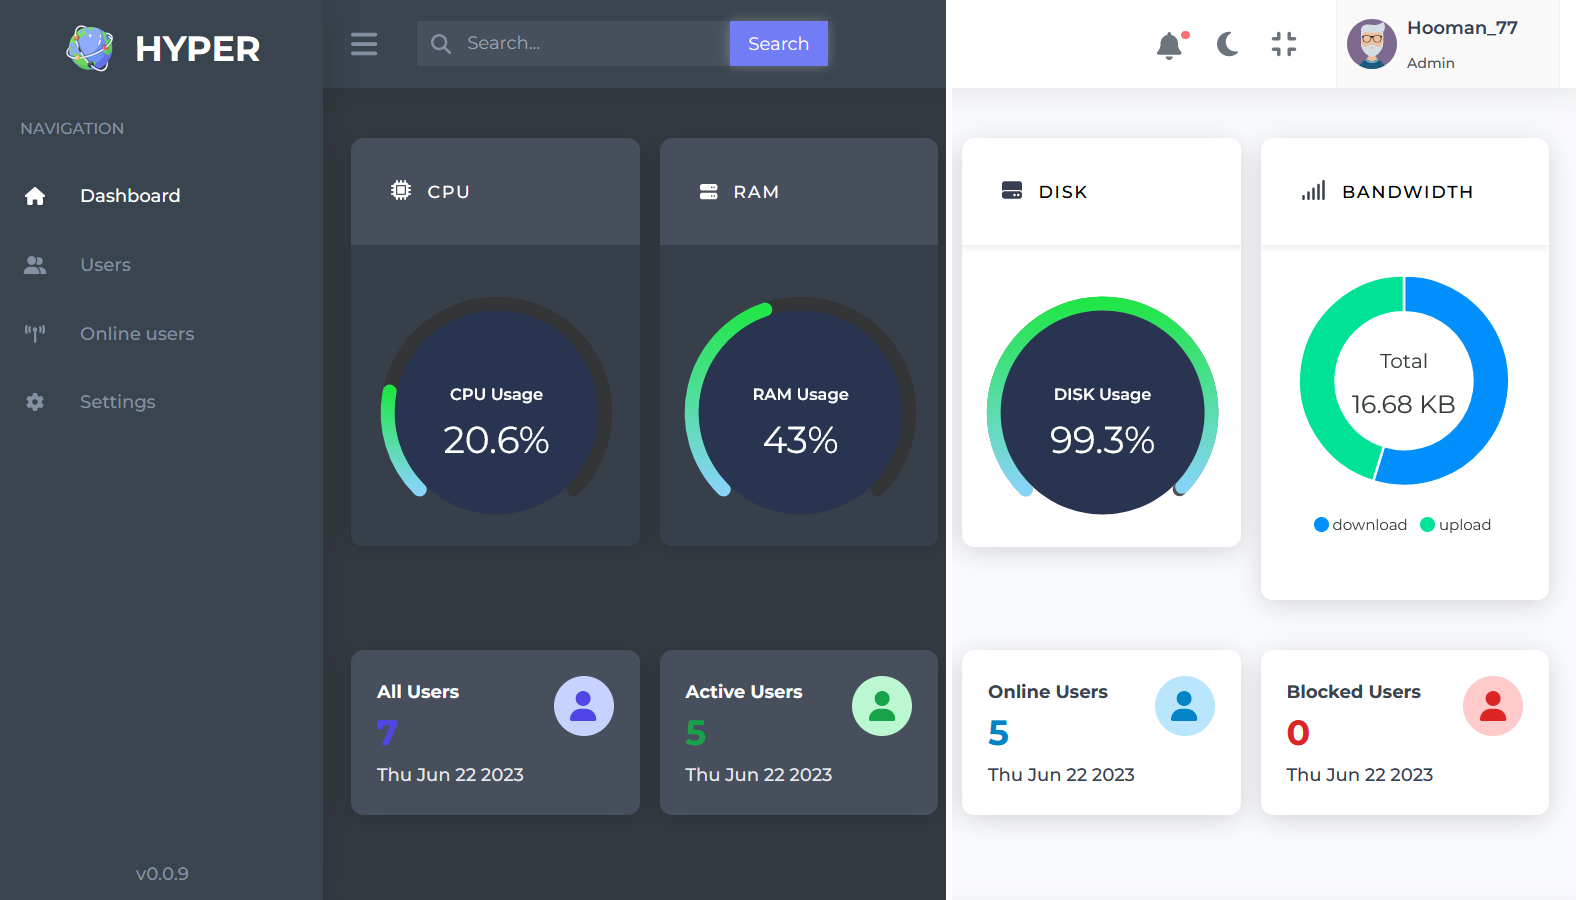
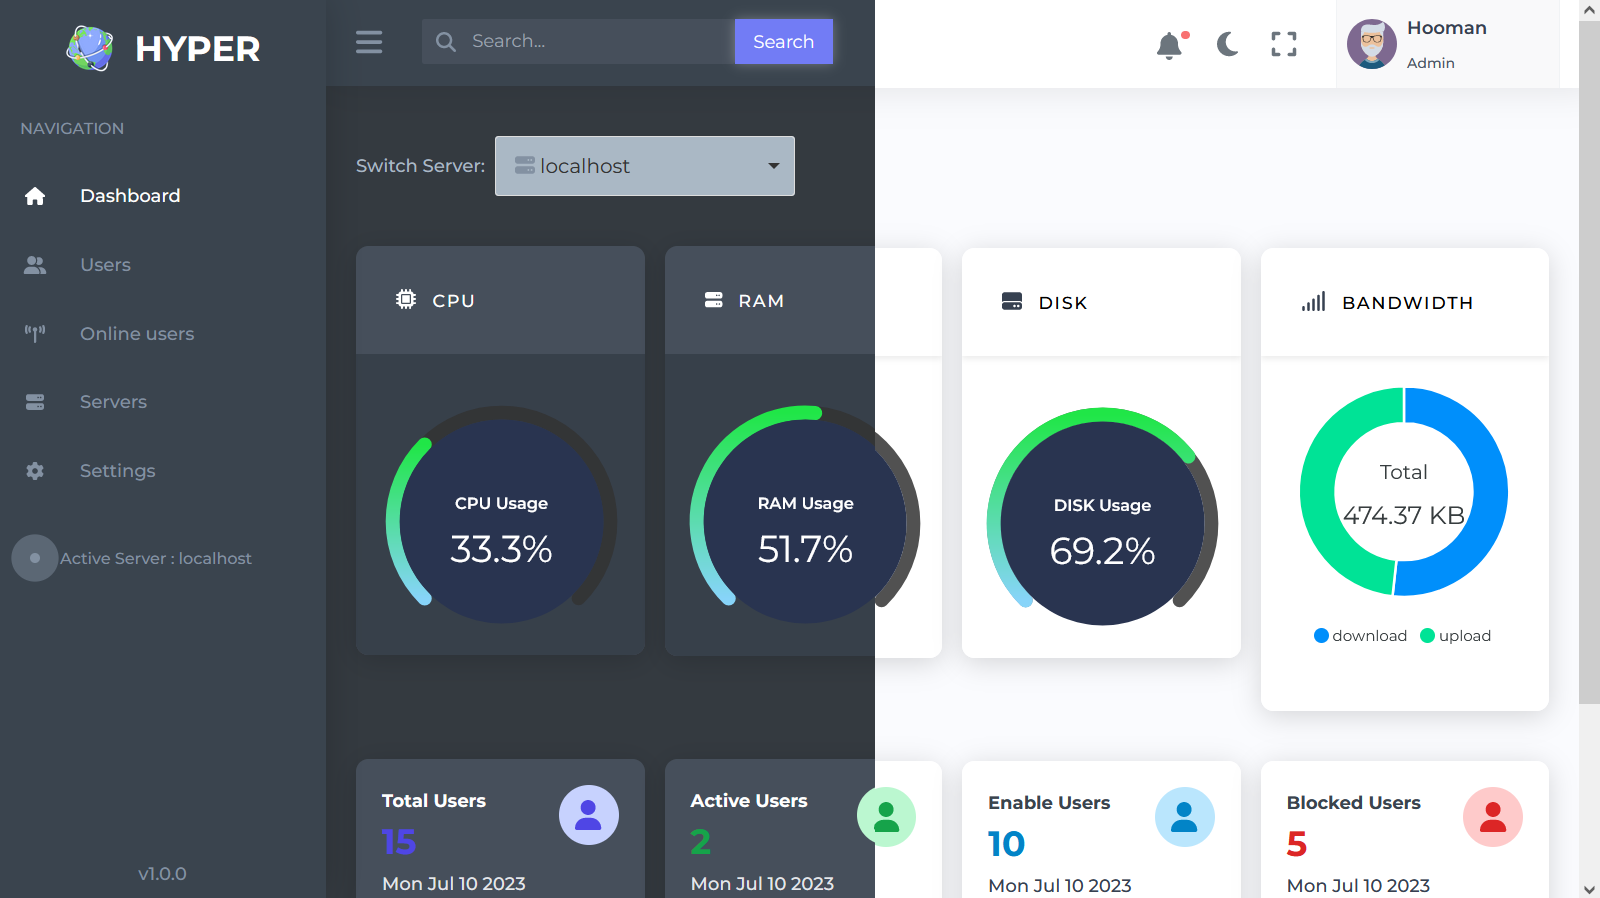
bugs fixed

diff --git a/src/composables/users/useSettings.ts b/src/composables/users/useSettings.ts
@@ -11,6 +11,7 @@ export const useSettings=(props:any)=>{
     const dropdownFlag=ref<boolean>(false);
     const newExpirationDateForm=ref<HTMLFormElement|null>(null)
     const newMultiForm=ref<HTMLFormElement|null>(null)
+    const changePasswordForm=ref<HTMLFormElement|null>(null)
     const {tableStore}=useTableStore()
     const {token}=useAuthStore()
     const {dashboardStore}=useDashboardStore()
@@ -20,9 +21,9 @@ export const useSettings=(props:any)=>{
         modal:false,
         username:'',
         newPassword:'',
-        changePassword:false,
         renewUser:false,
         changeMulti:false,
+        askPassword:false
     })
     const submitNewExpForm = () => {
         if(newExpirationDateForm.value){
@@ -36,7 +37,12 @@ export const useSettings=(props:any)=>{
             node.submit()
         }
     };
-
+    const submitChangePasswordForm = () => {
+        if(changePasswordForm.value){
+            const node = (changePasswordForm.value as any).node
+            node.submit()
+        }
+    };
 
     const toggleDropdown = () => {
         dropdownFlag.value=!dropdownFlag.value
@@ -65,7 +71,7 @@ export const useSettings=(props:any)=>{
                 })
             }else{
                 notify({
-                    type:'warn',
+                    type:'success',
                     title:'Delete Operation',
                     text:'User deleted successfully!'
                 })
@@ -86,10 +92,11 @@ export const useSettings=(props:any)=>{
         })
 
     }
-    const changePassword = async () => {
+    const changePassword = async (data) => {
         dropdownFlag.value=false
-        operationData.modal=false
-        const query=querySerialize({mode:'users',username:props.user,server:getServerIP.value})
+        dashboardStore.showPreloaderFlag=true
+        tableStore.fetchTableDataFlag=false
+        const query=querySerialize({mode:'users',username:props.user,server:getServerIP.value,passwd:data.new_change_password})
         fetch(apiBase+`change-passwd-user?`+query,{
             headers:{
                 'Content-Type':'application/json',
@@ -105,12 +112,6 @@ export const useSettings=(props:any)=>{
                     text:response.detail
                 })
             }else{
-                operationData.newPassword=response.password
-                operationData.changePassword=true
-                operationData.name='Password'
-                operationData.modal=true
-                const userIndex=tableStore.tableData.rows.findIndex((item:any)=>item.uid===props.uid);
-                (tableStore.tableData as IUsers_Data).rows[userIndex].passwd=response.password;
                 notify({
                     type:'success',
                     title:'Change Password Operation',
@@ -118,12 +119,15 @@ export const useSettings=(props:any)=>{
                 })
             }
         }).catch(err=>{
-            operationData.modal=false
             notify({
                 type:'error',
                 title:'Change Password Operation',
                 text:'Operation failed! Error in connecting to server.'
             })
+        }).finally(()=>{
+            operationData.askPassword=false
+            operationData.modal=false
+            tableStore.getUsersList()
         })
     }
     const lockUser = async () => {
@@ -187,7 +191,7 @@ export const useSettings=(props:any)=>{
                 const userIndex=tableStore.tableData.rows.findIndex((item:any)=>item.uid===props.uid);
                 (tableStore.tableData as IUsers_Data).rows[userIndex].status='enable';
                 notify({
-                    type:'warn',
+                    type:'success',
                     title:'Unlock User Operation',
                     text:'User unlocked successfully!'
                 })
@@ -293,7 +297,7 @@ export const useSettings=(props:any)=>{
         operationData.modal=true
         operationData.username=props.user
         operationData.newPassword=''
-        operationData.changePassword=false
+        operationData.askPassword=name === 'Change password'
         operationData.renewUser = name === 'Renew user';
         operationData.changeMulti = name === 'Change Multi';
     }
@@ -302,7 +306,7 @@ export const useSettings=(props:any)=>{
         if(name==='Delete user'){
             return {'click':deleteUser}
         }else if(name==='Change password'){
-            return {'click':changePassword}
+            return {'click':submitChangePasswordForm}
         }else if(name==='Lock user'){
             return {'click':lockUser}
         }else if(name==='Unlock user'){
@@ -317,6 +321,6 @@ export const useSettings=(props:any)=>{
 
 
     return{
-        toggleDropdown,dropdownFlag,selectOperation,operationData,handlers,renewUser,newExpirationDateForm,changeMulti,newMultiForm
+        toggleDropdown,dropdownFlag,selectOperation,operationData,handlers,renewUser,newExpirationDateForm,changeMulti,newMultiForm,changePassword,changePasswordForm
     }
 }

diff --git a/src/components/Users/Setting.vue b/src/components/Users/Setting.vue
@@ -22,8 +22,7 @@
 
   <VModal :fade-outside="false" class="!p-0 !h-auto" v-model="operationData.modal">
     <div class="modal-body">
-      <p v-if="operationData.changePassword" class="text-1 text-gray-800 dark:text-primary-dark-3 flex items-center gap-0.5">Password changed.</p>
-      <p v-else class="text-1 text-gray-800 dark:text-primary-dark-3 flex items-center gap-0.5"> Are you sure?</p>
+      <p  class="text-1 text-gray-800 dark:text-primary-dark-3 flex items-center gap-0.5"> Are you sure?</p>
       <p class="text-gray-800 text-0.8 mt-0.7 dark:text-primary-dark-3">
         Action on <span class="text-secondary-light-2 text-0.8">{{getServerIP}}</span> server <router-link class="text-secondary-light-2 !text-[0.65rem] hover:underline ml-0.1" to="/servers">switch</router-link>
       </p>
@@ -41,14 +40,6 @@
         </column>
         <column col="6">
           <p class="font-second dark:text-primary-light-1">{{operationData.username}}</p>
-        </column>
-      </row>
-      <row v-if="operationData.changePassword" class="mt-0.5">
-        <column col="6">
-          <p class="font-second text-right dark:text-primary-light-1">new password:</p>
-        </column>
-        <column col="6">
-          <p @click="copyText(operationData.newPassword)" class="font-second dark:text-primary-light-1">{{operationData.newPassword}}</p>
         </column>
       </row>
       <row v-if="operationData.renewUser" class="mt-0.5">
@@ -90,6 +81,29 @@
           </FormKit>
         </column>
       </row>
+      <row v-if="operationData.askPassword" class="mt-0.5">
+        <column col="6">
+          <p class="font-second text-right dark:text-primary-light-1">new Password:</p>
+        </column>
+        <column col="6">
+          <FormKit id="changePasswordForm" type="form" ref="changePasswordForm"  @submit="changePassword"  :actions="false" >
+            <FormKit
+                validation-label="password"
+                :validation="[['required'], ['matches', /^.{3,20}$/]]"
+                help="Between 3 and 20 characters."
+                type="password"
+                help-class="dark:text-primary-light-1"
+                id="new_change_password"
+                name="new_change_password"
+                input-class=" font-main dark:text-primary-light-1"
+                label-class="dark:text-primary-dark-2 dark:!bg-[#37404a] !font-main"
+                :floating-label="true"
+                suffix-icon="eyeClosed"
+                @suffix-icon-click="handleIconClick"
+            />
+          </FormKit>
+        </column>
+      </row>
 
     </div>
     <div class="modal-footer">
@@ -109,15 +123,18 @@
 <script setup lang="ts">
 import VDropdown from '../global/VDropdown.vue'
 import VTooltip from '../global/VTooltip.vue'
-import {copyText} from "../../utils/Helper";
 import {settingDropdownOption} from "../../utils/Helper";
 import {useServerStore} from "../../composables/useStates";
 import {useSettings} from "../../composables/users/useSettings";
 import VModal from '../global/VModal.vue'
 const props=defineProps(['user','uid','exdate','status','multi']);
-const {toggleDropdown,dropdownFlag,selectOperation,operationData,handlers,renewUser,newExpirationDateForm,changeMulti,newMultiForm}=useSettings(props);
+const {toggleDropdown,dropdownFlag,selectOperation,operationData,handlers,renewUser,newExpirationDateForm,changeMulti,newMultiForm,changePasswordForm,changePassword}=useSettings(props);
 const {getServerIP}=useServerStore()
 
+const handleIconClick = (node, e) => {
+  node.props.suffixIcon = node.props.suffixIcon === 'eye' ? 'eyeClosed' : 'eye'
+  node.props.type = node.props.type === 'password' ? 'text' : 'password'
+}
 
 </script>
 

diff --git a/src/pages/users/create.vue b/src/pages/users/create.vue
@@ -190,7 +190,7 @@
       </row>
     </div>
     <div class="modal-footer">
-      <button class="btn btn-secondary btn-sm" @click="copyCreatedUserInfo">
+      <button class="btn btn-secondary btn-sm" @click="copyText(`username:${newCreatedUserData.username} password:${newCreatedUserData.password}`)">
         copy
       </button>
       <button class="btn btn-indigo btn-sm" @click="closeModal">
@@ -201,6 +201,7 @@
 </template>
 
 <script setup lang="ts">
+import {copyText} from "../../utils/Helper";
 import VBreadcrumb from '../../components/global/VBreadcrumb.vue'
 import VCard from '../../components/global/VCard.vue'
 import VBloader from '../../components/global/VBloader.vue'
@@ -210,7 +211,7 @@ import {currentYear,currentDate,currentMonth} from "../../utils/Helper";
 import {ref} from 'vue'
 import {useCreateUser} from "../../composables/users/useCreate";
 import {FontAwesomeIcon} from "@fortawesome/vue-fontawesome";
-const {createUserFormSubmit,fetchOperationData,createSingleUserForm,submitForm,castNumber,closeModal,newCreatedUserData,copyCreatedUserInfo}=useCreateUser();
+const {createUserFormSubmit,fetchOperationData,createSingleUserForm,submitForm,castNumber,closeModal,newCreatedUserData}=useCreateUser();
 const showPasswordFlag=ref<boolean>(false);
 const {getServerIP}=useServerStore()
 

diff --git a/src/components/global/VTInput.vue b/src/components/global/VTInput.vue
@@ -5,9 +5,10 @@
     </label>
     <input ref="input" :class="{'!border-b-red-600':errorFlag}" :type="passwordIconToggleFlag ? 'text' : type" :placeholder="placeholder" class="v-trans-input" :id="label" @input="inputHandler($event)" :value="modelValue" type="text">
    <font-awesome-icon @click="passwordIconToggleFlag=!passwordIconToggleFlag" class="password-eye-icon w-1.5" v-if="type==='password'" size="1.5rem" :icon="passwordIconToggleFlag ? 'fa-solid fa-eye-slash' : 'fa-solid fa-eye'"/>
-    <VTooltip :innerClass="tooltipClass" :content="rule" class="!absolute right-0 cursor-pointer" :class="{'right-[30px]':type==='password'}" >
+    <VTooltip v-if="rule" :innerClass="tooltipClass" :content="rule" class="!absolute right-0 cursor-pointer" :class="{'right-[30px]':type==='password'}" >
       <font-awesome-icon v-if="errorFlag"   size="1.5rem" class="error-icon w-1.5" icon="fa-solid fa-circle-exclamation"/>
     </VTooltip>
+    <font-awesome-icon v-if="errorFlag && !rule" :class="{'right-[30px]':type==='password'}"   size="1.5rem" class="error-icon w-1.5 absolute right-0" icon="fa-solid fa-circle-exclamation"/>
   </div>
 </template>
 

diff --git a/src/composables/usePagination.ts b/src/composables/usePagination.ts
@@ -184,7 +184,7 @@ export const usePagination=()=>{
                 dashboardStore.removeNotification(tableStore.selectedUserToDelete)
                 tableStore.selectedUserToDelete=[]
                 notify({
-                    type:'warn',
+                    type:'success',
                     title:'Delete Users Operation',
                     text:'Users deleted successfully!'
                 })
@@ -227,7 +227,7 @@ export const usePagination=()=>{
             }else{
                 tableStore.selectedOnlineUserToKill=[]
                 notify({
-                    type:'warn',
+                    type:'success',
                     title:'Kill Users Operation',
                     text:'Users are killed successfully!'
                 })

diff --git a/src/components/Sidebar/Content.vue b/src/components/Sidebar/Content.vue
@@ -23,14 +23,13 @@
         />
       </li>
     </ul>
-    <div class="mt-1 flex items-center pl-0.5">
+    <div v-if="windowWidth>500 && !sidebarCollapseFlag" class="mt-1 flex items-center pl-0.5">
       <span class="relative flex h-0.5 w-0.5 flex justify-center items-center">
           <span class="animate-ping-slow !w-1.7 !h-1.7 absolute inline-flex h-full w-full rounded-full bg-primary-dark-2 opacity-75"></span>
             <span class="relative inline-flex rounded-full h-0.5 w-0.5 bg-primary-dark-2"></span>
       </span>
       <p class="text-primary-dark-2 text-0.8 ml-1">Active Server : {{getServerIP}}</p>
     </div>
-
   </div>
 </template>
 
@@ -45,8 +44,6 @@ const {getServerIP}=useServerStore()
 
 <style scoped>
 
-.pulse{
 
-}
 
 </style>

diff --git a/src/pages/login.vue b/src/pages/login.vue
@@ -19,7 +19,6 @@
                              label="Username"
                              v-model="userData.username"
                              :regex="usernameRegex"
-                             rule="1- username at least 3-20 characters long<br/>2- no _ or . at the beginning<br/>3- no __ or _. or ._ or .. inside<br/>4- no _ or . at the end"
                     />
                   </column>
                 </row>
@@ -31,7 +30,6 @@
                              label="Password"
                              v-model="userData.password"
                              :regex="passwordRegex"
-                             rule="between 3 and 20 characters"
                     />
                   </column>
                 </row>

diff --git a/src/composables/useNotification.ts b/src/composables/useNotification.ts
@@ -1,5 +1,5 @@
 import {ref, watch} from "vue";
-import {useDashboardStore} from "./useStates";
+import {useDashboardStore,useAuthStore,envVariable} from "./useStates";
 import {useRoute} from "vue-router";
 import {onMounted} from "vue";
 import {INotification} from "../utils/Types";
@@ -8,6 +8,8 @@ import {INotification} from "../utils/Types";
 export const useNotification=()=>{
     const dropdownFlag=ref<boolean>(false);
     const {dashboardStore}=useDashboardStore();
+    const {token}=useAuthStore();
+    const {apiBase}=envVariable()
     const route=useRoute()
     watch(
         ()=>route.query,

diff --git a/src/composables/users/useCreate.ts b/src/composables/users/useCreate.ts
@@ -82,12 +82,8 @@ export const useCreateUser=()=>{
       fetchOperationData.modal=false
     };
 
-    const copyCreatedUserInfo = () => {
-        navigator.clipboard.writeText(`username:${newCreatedUserData.username} password:${newCreatedUserData.password}`)
-        alert('copied the text')
-    };
 
     return{
-        createUserFormSubmit,fetchOperationData,createSingleUserForm,submitForm,castNumber,closeModal,newCreatedUserData,copyCreatedUserInfo
+        createUserFormSubmit,fetchOperationData,createSingleUserForm,submitForm,castNumber,closeModal,newCreatedUserData
     }
 }

diff --git a/src/components/layout/Footer.vue b/src/components/layout/Footer.vue
@@ -1,7 +1,7 @@
 <template>
   <footer class="footer" :class="{'n-collapse':sidebarCollapseFlag,'!mt-[250px]':$route.name==='NotFound'}">
     <p class="text-gray-500 dark:text-primary-dark-3 sm:mb-0 mb-1">&copy;Copyright {{currentYear}}. All right is reserved.</p>
-    <p class="text-gray-500 dark:text-primary-dark-3">Designed and developed by Hooman & Farshad</p>
+    <p class="text-gray-500 dark:text-primary-dark-3">Designed and developed by Hooman & Alireza</p>
   </footer>
 </template>
 

diff --git a/src/composables/useStates.ts b/src/composables/useStates.ts
@@ -9,7 +9,7 @@ import {storeToRefs} from "pinia";
 export const envVariable=()=>{
     const apiBase:string|undefined=process.env.API_BASE || 'http://localhost/';
     const cookieName:string|undefined=process.env.COOKIE_NAME || 'fb69cda06c628';
-    const appVersion:string|undefined=process.env.VERSION || '0.0.9';
+    const appVersion:string|undefined=process.env.VERSION || '1.0.0';
     const server_ip:string|undefined=process.env.SERVER_IP || 'localhost'
 
     return{

diff --git a/src/pages/error.vue b/src/pages/error.vue
@@ -1,6 +1,6 @@
 <template>
   <defaultLayout>
-    <p class="sm:text-2.5 text-1.3 text-primary-dark-1">Page not Found!</p>
+    <p class="sm:text-2.5 text-1.3 text-primary-dark-1 dark:text-primary-light-1">Page not Found!</p>
     <router-link :to="{name:'DASHBOARD'}" class="btn btn-indigo btn-md mt-2">
       Home
     </router-link>
